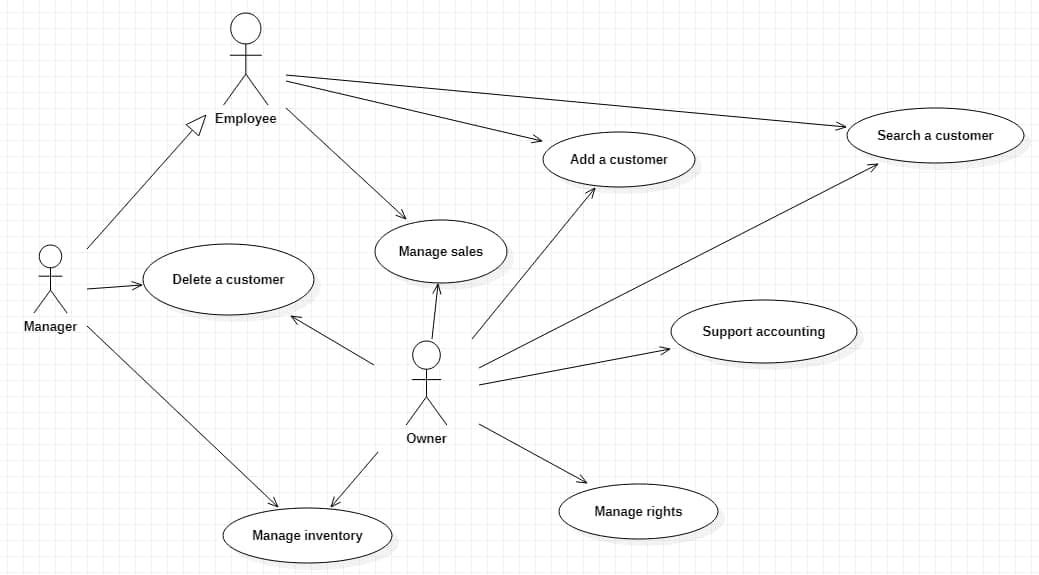
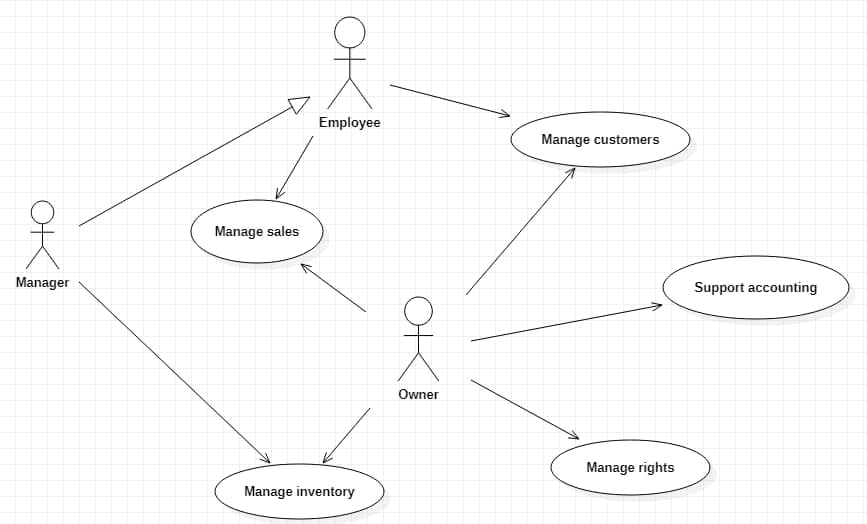
End of use Cases

diff --git a/Deliverables/RequirementsDocument.md b/Deliverables/RequirementsDocument.md
@@ -108,11 +108,7 @@ Alice is 35, is a manager of David's shop. Periodically, she checks the inventor
 | ---------- |:-----:|:-------:|:----------:|
 | FR1 | yes | yes | yes |
 | FR2 | yes | yes | no |
-| FR3.1 | yes | yes | yes |
-| FR3.2 | yes | yes | yes |
-| FR3.3 | yes | yes | no |
-| FR3.4 | yes | yes | yes |
-| FR3.5 | yes | yes | yes |
+| FR3 | yes | yes | yes |
 | FR4 | yes | no | no |
 | FR5 | yes | no | no |
 
@@ -132,9 +128,13 @@ Alice is 35, is a manager of David's shop. Periodically, she checks the inventor
 
 ## Use case diagram
 
-![](use_cases_diagram.jpg)
+![Main Use Cases Diagram](use_cases_diagram.jpg)
 
-![](use_cases_diagram_complement.jpg)
+![Includes of Manage Inventory](use_cases_diagram_complement1.jpg)
+
+![Includes of Manage Customers](use_cases_diagram_complement2.jpg)
+
+![Includes of Manage Rights](use_cases_diagram_complement3.jpg)
 
 ### Use case 1, UC1 - Manage Sales
 | Actors Involved        | Employee |
@@ -153,11 +153,10 @@ Alice is 35, is a manager of David's shop. Periodically, she checks the inventor
 |  Post conditions     | Quantity of Item I is reduced |
 | Step#        | Description  |
 |  1     | The Customer C presents the product |  
-|  2     | The Employee E logs in |
-|  3     | E searchs the Item I |
-|  4     | E finds the price of I |
-|  5     | C pays the price of I |
-|  6     | The quantity of I is reduced |
+|  2     | E searchs the Item I |
+|  3     | E finds the price of I |
+|  4     | C pays the price of I |
+|  5     | The quantity of I is reduced |
 
 ##### Scenario 1.2
 
@@ -168,14 +167,13 @@ Alice is 35, is a manager of David's shop. Periodically, she checks the inventor
 |    | Customer C gains points on its fidelity card |
 | Step#        | Description  |
 |  1     | The Customer C presents the product |  
-|  2     | The Employee E logs in |
-|  3     | E searchs the Item I |
-|  4     | E finds the price of I |
-|  5     | C presents the fidelity card |
-|  6     | E checks if C exists |
-|  7     | C pays the price of I |
-|  8     | C gains points on fidelity card |
-|  9     | The quantity of I is reduced |
+|  2     | E searchs the Item I |
+|  3     | E finds the price of I |
+|  4     | C presents the fidelity card |
+|  5     | E checks if C exists |
+|  6     | C pays the price of I |
+|  7     | C gains points on fidelity card |
+|  8     | The quantity of I is reduced |
 
 ##### Scenario 1.3
 
@@ -187,15 +185,14 @@ Alice is 35, is a manager of David's shop. Periodically, she checks the inventor
 |         | Points on fidelity card of C is modified |
 | Step#        | Description  |
 |  1     | The Customer C presents the product |  
-|  2     | The Employee E logs in |
-|  3     | E searchs the Item I |
-|  4     | E finds the price of I |
-|  5     | C presents the fidelity card |
-|  6     | E checks if C exists |
-|  7     | C uses points from its card |
-|  8     | C pays the remaining |
-|  9     | C gains points on fidelity card |
-|  10     | The quantity of I is reduced |
+|  2     | E searchs the Item I |
+|  3     | E finds the price of I |
+|  4     | C presents the fidelity card |
+|  5     | E checks if C exists |
+|  6     | C uses points from its card |
+|  7     | C pays the remaining |
+|  8     | C gains points on fidelity card |
+|  9     | The quantity of I is reduced |
 
 
 ### Use case 2, UC2 - Create Item
